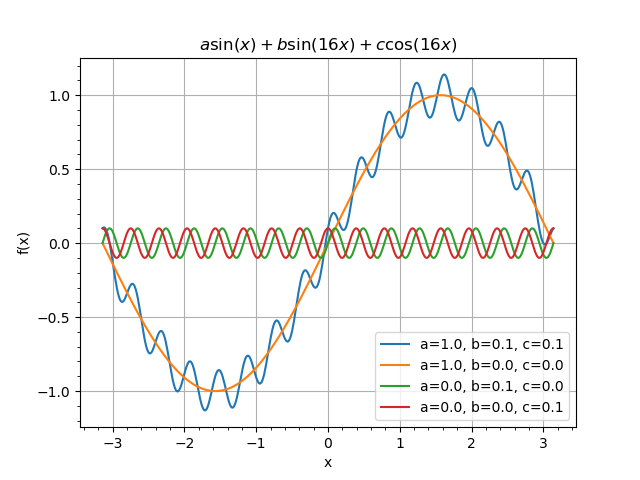
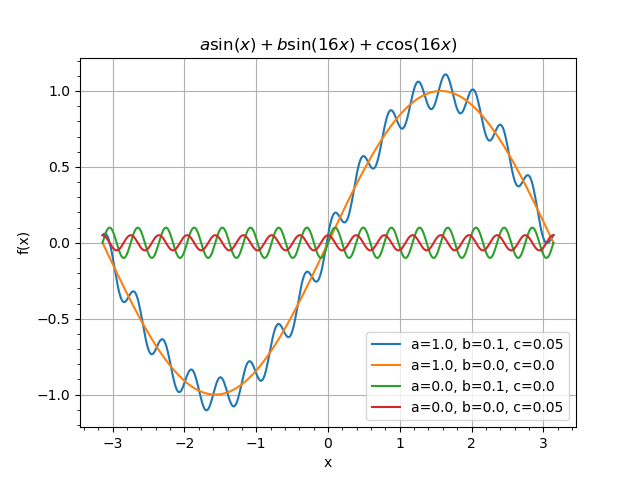
minor

Changed region(s): [[0.0625, 0.1562, 0.9062, 0.875], [0.0625, 0.5, 0.125, 0.5312]]

diff --git a/macro/tutorial/variables/04_weightedsum.py b/macro/tutorial/variables/04_weightedsum.py
@@ -15,7 +15,7 @@ ns = env.globalns
 # Create a parameter in the global namespace
 w1 = ns.defparameter('a', central=1.0, free=True, label='weight 1')
 w2 = ns.defparameter('b', central=0.1, free=True, label='weight 2')
-w3 = ns.defparameter('c', central=0.1, free=True, label='weight 3')
+w3 = ns.defparameter('c', central=0.05, free=True, label='weight 3')
 
 # Print the list of parameters
 ns.printparameters(labels=True)

diff --git a/doc/source/tutorial/variables.rst b/doc/source/tutorial/variables.rst
@@ -292,7 +292,7 @@ After initializing the object we make four plots:
 
     A set of ``WeightedSum`` plots for different values of the parameters.
 
-First (blue) line corresponds to the initial parameters :math:`a=1.0`, :math:`b=0.1` and :math:`c=0.1`. Then we switch
+First (blue) line corresponds to the initial parameters :math:`a=1.0`, :math:`b=0.1` and :math:`c=0.05`. Then we switch
 of fast oscillating components with
 
 .. literalinclude:: ../../../macro/tutorial/variables/04_weightedsum.py
